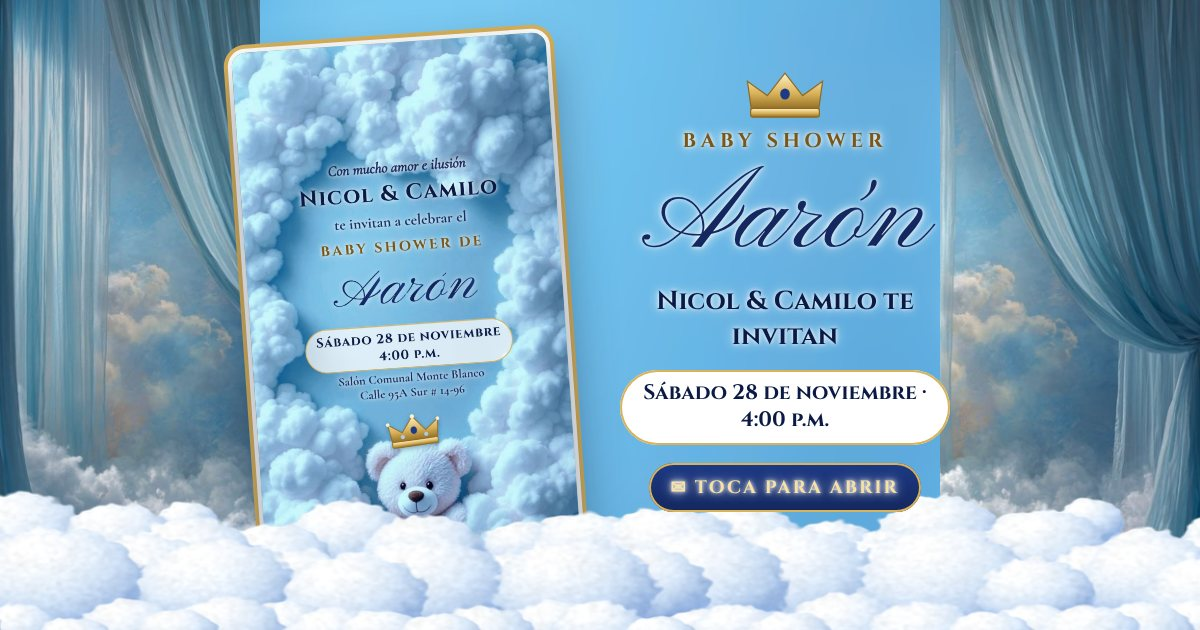
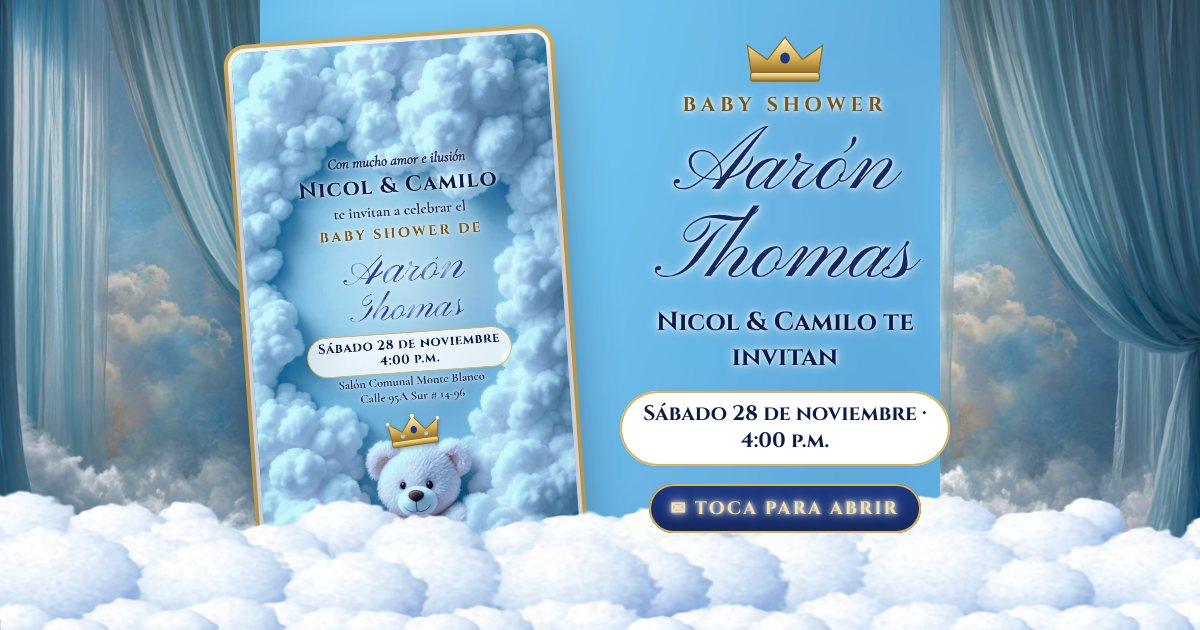
Add files via upload

Changed region(s): [[0.4933, 0.0603, 0.8017, 0.8746], [0.2467, 0.2413, 0.4317, 0.6635], [0.3392, 0.6635, 0.37, 0.7238]]

diff --git a/index.html b/index.html
@@ -3,19 +3,19 @@
 <head>
 <meta charset="utf-8">
 <meta name="viewport" content="width=device-width, initial-scale=1, viewport-fit=cover">
-<title>Baby Shower de Aarón 👑</title>
-<meta name="description" content="Nicol y Camilo te invitan a celebrar el baby shower de Aarón. Sábado 28 de noviembre, 4:00 p.m. Toca para abrir tu invitación.">
+<title>Baby Shower de Aarón Thomas 👑</title>
+<meta name="description" content="Nicol y Camilo te invitan a celebrar el baby shower de Aarón Thomas. Sábado 28 de noviembre, 4:00 p.m. Toca para abrir tu invitación.">
 <meta property="og:type" content="website">
 <meta property="og:locale" content="es_CO">
-<meta property="og:title" content="Baby Shower de Aarón 👑">
-<meta property="og:description" content="Nicol y Camilo te invitan a celebrar el baby shower de Aarón. Sábado 28 de noviembre, 4:00 p.m. Toca para abrir tu invitación.">
+<meta property="og:title" content="Baby Shower de Aarón Thomas 👑">
+<meta property="og:description" content="Nicol y Camilo te invitan a celebrar el baby shower de Aarón Thomas. Sábado 28 de noviembre, 4:00 p.m. Toca para abrir tu invitación.">
 <meta property="og:url" content="https://iwydebug.github.io/babyshower-aaron/">
 <meta property="og:image" content="https://iwydebug.github.io/babyshower-aaron/preview.jpg">
 <meta property="og:image:secure_url" content="https://iwydebug.github.io/babyshower-aaron/preview.jpg">
 <meta property="og:image:type" content="image/jpeg">
 <meta property="og:image:width" content="1200">
 <meta property="og:image:height" content="630">
-<meta property="og:image:alt" content="Invitación al baby shower de Aarón: osito con corona entre nubes">
+<meta property="og:image:alt" content="Invitación al baby shower de Aarón Thomas: osito con corona entre nubes">
 <meta name="twitter:card" content="summary_large_image">
 <meta name="twitter:image" content="https://iwydebug.github.io/babyshower-aaron/preview.jpg">
 <meta name="theme-color" content="#9fc6ea">
@@ -84,7 +84,7 @@ canvas.layer{position:fixed;inset:0;width:100%;height:100%;pointer-events:none}
 .pocket .lines{position:absolute;inset:0;width:100%;height:100%}
 .etext{position:absolute;left:0;right:0;top:57%;z-index:4;text-align:center;pointer-events:none;display:grid;justify-items:center;gap:0}
 .etext .bs{font-family:var(--display);font-weight:700;letter-spacing:.2em;font-size:clamp(.7rem,3.2vw,.95rem);color:var(--gold-lo)}
-.etext .nm{font-family:var(--script);font-size:clamp(2.6rem,13vw,3.8rem);line-height:1;color:var(--velvet);text-shadow:0 2px 0 rgba(255,255,255,.8)}
+.etext .nm{font-family:var(--script);font-size:clamp(2.1rem,10vw,3rem);white-space:nowrap;line-height:1;color:var(--velvet);text-shadow:0 2px 0 rgba(255,255,255,.8)}
 .flap{position:absolute;left:0;right:0;top:0;height:60%;transform-origin:50% 0;transform-style:preserve-3d;transition:transform .9s cubic-bezier(.6,.05,.3,1),z-index 0s .45s;z-index:5}
 .flap .f,.flap .b{position:absolute;inset:0;backface-visibility:hidden;-webkit-backface-visibility:hidden}
 .flap .b{transform:rotateX(180deg)}
@@ -121,7 +121,7 @@ main{position:relative;width:var(--cw);margin:0 auto;overflow:hidden;opacity:0;
 .fili.tl{top:2px;left:2px}.fili.tr{top:2px;right:2px;transform:scaleX(-1)}.fili.bl{bottom:2px;left:2px;transform:scaleY(-1)}.fili.br{bottom:2px;right:2px;transform:scale(-1)}
 
 .hero{position:relative;width:100%;aspect-ratio:736/1308;container-type:inline-size;background:var(--clouds) center/cover no-repeat;z-index:1;overflow:hidden}
-.oval{position:absolute;left:13%;right:13%;top:16.5%;bottom:32%;display:flex;flex-direction:column;align-items:center;justify-content:center;text-align:center;gap:.8cqw;
+.oval{position:absolute;left:12%;right:12%;top:15.5%;bottom:31.5%;display:flex;flex-direction:column;align-items:center;justify-content:center;text-align:center;gap:.5cqw;
   text-shadow:0 0 6px rgba(255,255,255,.95),0 0 14px rgba(255,255,255,.75)}
 .oval::before{content:"";position:absolute;inset:2% -4%;border-radius:50%;background:radial-gradient(ellipse,rgba(255,255,255,.5),rgba(255,255,255,0) 70%);z-index:-1}
 .oval p{margin:0}
@@ -129,7 +129,8 @@ main{position:relative;width:var(--cw);margin:0 auto;overflow:hidden;opacity:0;
 .parents{font-family:var(--display);font-weight:700;font-size:6.9cqw;letter-spacing:.05em;color:var(--navy)}
 .invite{font-size:4.8cqw;font-weight:700;color:var(--ink-2)}
 .event{font-family:var(--display);font-weight:700;letter-spacing:.18em;font-size:4.4cqw;color:var(--gold-lo);margin-top:1cqw!important}
-.baby{font-family:var(--script);font-weight:400;font-size:19cqw;line-height:1;margin:0;padding:0 2cqw;text-shadow:none;filter:drop-shadow(0 0 5px rgba(255,255,255,.9))}
+.baby .l1,.baby .l2{display:block}.baby .l1{font-size:16cqw;line-height:1}.baby .l2{font-size:13cqw;line-height:.95;margin-top:-1.5cqw}
+.baby{font-family:var(--script);font-weight:400;font-size:16cqw;line-height:1;margin:0;padding:0 2cqw;text-shadow:none;filter:drop-shadow(0 0 5px rgba(255,255,255,.9))}
 .baby .ch{display:inline-block;background:linear-gradient(100deg,var(--navy) 0%,#24479f 40%,#8fb6ea 50%,#24479f 60%,var(--navy) 100%);background-size:250% 100%;-webkit-background-clip:text;background-clip:text;color:transparent;animation:inkflow 5s linear infinite}
 @keyframes inkflow{from{background-position:120% 0}to{background-position:-130% 0}}
 .when{font-family:var(--display);font-weight:700;font-size:4.1cqw;letter-spacing:.05em;color:var(--navy);margin-top:.6cqw!important;padding:1.3cqw 3.6cqw;border-radius:99px;background:rgba(255,255,255,.8);box-shadow:inset 0 0 0 1.5px var(--gold);text-shadow:none;line-height:1.25}
@@ -266,7 +267,7 @@ main{position:relative;width:var(--cw);margin:0 auto;overflow:hidden;opacity:0;
       <div class="lining"></div>
       <div class="slot" id="slot"></div>
       <div class="pocket"><svg class="lines" viewBox="0 0 400 330" preserveAspectRatio="none" aria-hidden="true"><path d="M0 330 L200 175 L400 330" fill="none" stroke="rgba(122,154,200,.35)" stroke-width="2"/></svg></div>
-      <div class="etext" aria-hidden="true"><span class="bs">BABY SHOWER</span><span class="nm">Aarón</span></div>
+      <div class="etext" aria-hidden="true"><span class="bs">BABY SHOWER</span><span class="nm">Aarón Thomas</span></div>
       <div class="flap" aria-hidden="true">
         <div class="f"><svg viewBox="0 0 400 200" preserveAspectRatio="none">
           <defs><pattern id="dots" width="24" height="24" patternUnits="userSpaceOnUse"><circle cx="12" cy="12" r="2.4" fill="#fff" opacity=".8"/></pattern>
@@ -283,10 +284,10 @@ main{position:relative;width:var(--cw);margin:0 auto;overflow:hidden;opacity:0;
     <div class="blocks" aria-hidden="true">
       <svg viewBox="0 0 200 150">
         <g class="blk" style="animation-delay:0s"><g transform="rotate(-6 52 46)"><rect x="24" y="18" width="56" height="56" rx="10" fill="#1d3a86" stroke="#d9b25a" stroke-width="3"/><text x="52" y="60" text-anchor="middle" class="mono" font-size="36" fill="#f7e2a4">A</text></g></g>
-        <g class="blk" style="animation-delay:.25s"><g transform="rotate(5 112 46)"><rect x="84" y="18" width="56" height="56" rx="10" fill="#fff" stroke="#7fb2e5" stroke-width="3"/><text x="112" y="60" text-anchor="middle" class="mono" font-size="36" fill="#1d3a86">A</text></g></g>
-        <g class="blk" style="animation-delay:.5s"><rect x="8" y="80" width="58" height="58" rx="10" fill="#a9cdee" stroke="#1d3a86" stroke-width="3"/><text x="37" y="123" text-anchor="middle" class="mono" font-size="36" fill="#0b1a45">R</text></g>
-        <g class="blk" style="animation-delay:.75s"><rect x="70" y="80" width="58" height="58" rx="10" fill="url(#goldg)" stroke="#9a7428" stroke-width="3"/><text x="99" y="124" text-anchor="middle" class="mono" font-size="36" fill="#0b1a45">Ó</text></g>
-        <g class="blk" style="animation-delay:1s"><rect x="132" y="80" width="58" height="58" rx="10" fill="#1d3a86" stroke="#d9b25a" stroke-width="3"/><text x="161" y="123" text-anchor="middle" class="mono" font-size="36" fill="#f7e2a4">N</text></g>
+        <g class="blk" style="animation-delay:.25s"><g transform="rotate(5 112 46)"><rect x="84" y="18" width="56" height="56" rx="10" fill="#fff" stroke="#7fb2e5" stroke-width="3"/><text x="112" y="60" text-anchor="middle" class="mono" font-size="36" fill="#1d3a86">T</text></g></g>
+        <g class="blk" style="animation-delay:.5s"><rect x="8" y="80" width="58" height="58" rx="10" fill="#a9cdee" stroke="#1d3a86" stroke-width="3"/><text x="37" y="123" text-anchor="middle" class="mono" font-size="36" fill="#0b1a45" font-family="Arial,sans-serif">★</text></g>
+        <g class="blk" style="animation-delay:.75s"><rect x="70" y="80" width="58" height="58" rx="10" fill="url(#goldg)" stroke="#9a7428" stroke-width="3"/><text x="99" y="124" text-anchor="middle" class="mono" font-size="36" fill="#0b1a45" font-family="Arial,sans-serif">♥</text></g>
+        <g class="blk" style="animation-delay:1s"><rect x="132" y="80" width="58" height="58" rx="10" fill="#1d3a86" stroke="#d9b25a" stroke-width="3"/><text x="161" y="123" text-anchor="middle" class="mono" font-size="36" fill="#f7e2a4" font-family="Arial,sans-serif">★</text></g>
       </svg>
     </div>
     <button class="seal" id="open" aria-label="Abrir la invitación">
@@ -307,13 +308,13 @@ main{position:relative;width:var(--cw);margin:0 auto;overflow:hidden;opacity:0;
   <svg class="fili bl" viewBox="0 0 160 110" aria-hidden="true"><use href="#filigree"/></svg>
   <svg class="fili br" viewBox="0 0 160 110" aria-hidden="true"><use href="#filigree"/></svg>
 
-  <article class="hero" id="hero" aria-label="Invitación al baby shower de Aarón">
+  <article class="hero" id="hero" aria-label="Invitación al baby shower de Aarón Thomas">
     <div class="oval">
       <p class="lead">Con mucho amor e ilusión</p>
       <p class="parents">Nicol &amp; Camilo</p>
       <p class="invite">te invitan a celebrar el</p>
       <p class="event">BABY SHOWER DE</p>
-      <h1 class="baby" aria-label="Aarón"><span class="ch">A</span><span class="ch">a</span><span class="ch">r</span><span class="ch">ó</span><span class="ch">n</span></h1>
+      <h1 class="baby" aria-label="Aarón Thomas"><span class="l1"><span class="ch">A</span><span class="ch">a</span><span class="ch">r</span><span class="ch">ó</span><span class="ch">n</span></span><span class="l2"><span class="ch">T</span><span class="ch">h</span><span class="ch">o</span><span class="ch">m</span><span class="ch">a</span><span class="ch">s</span></span></h1>
       <p class="when">Sábado 28 de noviembre<br>4:00 p.m.</p>
       <p class="where">Salón Comunal Monte Blanco<br>Calle 95A Sur # 14-96</p>
       <p class="cue">DESLIZA<b>⌄</b></p>
@@ -335,7 +336,7 @@ main{position:relative;width:var(--cw);margin:0 auto;overflow:hidden;opacity:0;
           <path d="M200 70 L330 290 Q200 330 70 290 Z" fill="url(#usg)" opacity=".95"/>
           <g fill="#e9eef6" opacity=".88"><circle cx="170" cy="190" r="34"/><path d="M196 196 Q250 190 262 230 Q268 262 236 268 Q206 270 192 246 Q184 222 196 196 Z"/><circle cx="246" cy="270" r="9"/></g>
           <g class="beat"><path d="M200 214 C186 200 170 206 172 220 C174 232 200 244 200 244 C200 244 226 232 228 220 C230 206 214 200 200 214 Z" fill="#e98a96"/></g>
-          <text x="200" y="304" text-anchor="middle" class="mono" font-size="13" fill="#d9b25a" letter-spacing="4">AARÓN</text>
+          <text x="200" y="304" text-anchor="middle" class="mono" font-size="13" fill="#d9b25a" letter-spacing="3">AARÓN THOMAS</text>
         </svg>
       </div>
       <p class="eyebrow">NUESTRA HISTORIA</p>
@@ -380,11 +381,11 @@ main{position:relative;width:var(--cw);margin:0 auto;overflow:hidden;opacity:0;
           <circle cx="200" cy="262" r="112" fill="url(#monog)" stroke="#d9b25a" stroke-width="4"/>
           <circle cx="200" cy="262" r="98" fill="none" stroke="#f7e2a4" stroke-width="1.5" stroke-dasharray="2 6"/>
           <svg x="160" y="150" width="80" height="52" viewBox="0 0 100 64"><use href="#crownshape"/></svg>
-          <text x="200" y="312" text-anchor="middle" class="mono" font-size="130" fill="url(#goldg)">A</text>
+          <text x="200" y="312" text-anchor="middle" class="mono" font-size="100" fill="url(#goldg)">AT</text>
         </svg>
       </div>
       <p class="eyebrow">UN NOMBRE QUE YA BRILLA</p>
-      <h2 class="h2">Aarón</h2>
+      <h2 class="h2">Aarón Thomas</h2>
       <p class="phrase words">Tu nombre ya brilla como una estrella, y muy pronto brillará en nuestros brazos.</p>
       <p class="sub">Nuestro pequeño príncipe, el sueño más bonito de <em>mamá Nicol</em> y <em>papá Camilo</em>.</p>
     </div>
@@ -399,7 +400,7 @@ main{position:relative;width:var(--cw);margin:0 auto;overflow:hidden;opacity:0;
       <div class="date-big"><span class="dow">SÁBADO</span><span class="day">28</span><span class="mon">de noviembre</span><span class="pill">4:00 P.M.</span></div>
       <div class="count" id="count"><div><b id="cd-d">00</b><span>DÍAS</span></div><div><b id="cd-h">00</b><span>HORAS</span></div><div><b id="cd-m">00</b><span>MIN</span></div><div><b id="cd-s">00</b><span>SEG</span></div></div>
       <p class="h2" id="today" hidden style="font-size:2.8rem">¡Hoy es el gran día!</p>
-      <a class="btn navy" href="https://calendar.google.com/calendar/render?action=TEMPLATE&text=Baby%20Shower%20de%20Aar%C3%B3n&dates=20261128T210000Z/20261129T010000Z&location=Sal%C3%B3n%20Comunal%20Monte%20Blanco%2C%20Calle%2095A%20Sur%20%23%2014-96%2C%20Bogot%C3%A1&details=Nicol%20y%20Camilo%20te%20invitan%20al%20baby%20shower%20de%20Aar%C3%B3n." target="_blank" rel="noopener">AGREGAR AL CALENDARIO</a>
+      <a class="btn navy" href="https://calendar.google.com/calendar/render?action=TEMPLATE&text=Baby%20Shower%20de%20Aar%C3%B3n%20Thomas&dates=20261128T210000Z/20261129T010000Z&location=Sal%C3%B3n%20Comunal%20Monte%20Blanco%2C%20Calle%2095A%20Sur%20%23%2014-96%2C%20Bogot%C3%A1&details=Nicol%20y%20Camilo%20te%20invitan%20al%20baby%20shower%20de%20Aar%C3%B3n%20Thomas." target="_blank" rel="noopener">AGREGAR AL CALENDARIO</a>
     </div>
   </section>
 
@@ -422,7 +423,7 @@ main{position:relative;width:var(--cw);margin:0 auto;overflow:hidden;opacity:0;
   <section class="sec">
     <div class="band alt"></div>
     <div class="content">
-      <p class="eyebrow">UN REGALITO DE AARÓN</p>
+      <p class="eyebrow">UN REGALITO DE AARÓN THOMAS</p>
       <h2 class="h2">¡Revienta los globos!</h2>
       <p class="howto">Toca 6 globos para descubrir un mensaje secreto.</p>
       <div class="arena" id="arena"><canvas id="game"></canvas></div>
@@ -434,10 +435,10 @@ main{position:relative;width:var(--cw);margin:0 auto;overflow:hidden;opacity:0;
     <div class="band alt"></div>
     <div class="puff r a" style="top:52%"></div>
     <div class="content">
-      <p class="eyebrow">UN DETALLE PARA AARÓN</p>
+      <p class="eyebrow">UN DETALLE PARA AARÓN THOMAS</p>
       <h2 class="h2">Lluvia de sobres</h2>
       <div class="rain" id="rain" aria-hidden="true"><div class="cloudtop"></div><span class="e" style="left:6%;animation-duration:4.2s;animation-delay:-0s"><svg viewBox="0 0 60 42"><rect x="1" y="1" width="58" height="40" rx="5" fill="#fff" stroke="#d9b25a" stroke-width="2"/><path d="M2 3 L30 24 L58 3" fill="none" stroke="#d9b25a" stroke-width="2"/><path d="M30 20 c-3 -4 -9 -2 -8 2 c1 4 8 8 8 8 c0 0 7 -4 8 -8 c1 -4 -5 -6 -8 -2z" fill="#1d3a86"/></svg></span><span class="e" style="left:22%;animation-duration:5.1s;animation-delay:-1.3s"><svg viewBox="0 0 60 42"><rect x="1" y="1" width="58" height="40" rx="5" fill="#fff" stroke="#d9b25a" stroke-width="2"/><path d="M2 3 L30 24 L58 3" fill="none" stroke="#d9b25a" stroke-width="2"/><path d="M30 20 c-3 -4 -9 -2 -8 2 c1 4 8 8 8 8 c0 0 7 -4 8 -8 c1 -4 -5 -6 -8 -2z" fill="#e98a96"/></svg></span><span class="e" style="left:40%;animation-duration:3.8s;animation-delay:-2.6s"><svg viewBox="0 0 60 42"><rect x="1" y="1" width="58" height="40" rx="5" fill="#fff" stroke="#d9b25a" stroke-width="2"/><path d="M2 3 L30 24 L58 3" fill="none" stroke="#d9b25a" stroke-width="2"/><path d="M30 20 c-3 -4 -9 -2 -8 2 c1 4 8 8 8 8 c0 0 7 -4 8 -8 c1 -4 -5 -6 -8 -2z" fill="#d9b25a"/></svg></span><span class="e" style="left:58%;animation-duration:4.6s;animation-delay:-0.7s"><svg viewBox="0 0 60 42"><rect x="1" y="1" width="58" height="40" rx="5" fill="#fff" stroke="#d9b25a" stroke-width="2"/><path d="M2 3 L30 24 L58 3" fill="none" stroke="#d9b25a" stroke-width="2"/><path d="M30 20 c-3 -4 -9 -2 -8 2 c1 4 8 8 8 8 c0 0 7 -4 8 -8 c1 -4 -5 -6 -8 -2z" fill="#7fb2e5"/></svg></span><span class="e" style="left:74%;animation-duration:5.4s;animation-delay:-3.1s"><svg viewBox="0 0 60 42"><rect x="1" y="1" width="58" height="40" rx="5" fill="#fff" stroke="#d9b25a" stroke-width="2"/><path d="M2 3 L30 24 L58 3" fill="none" stroke="#d9b25a" stroke-width="2"/><path d="M30 20 c-3 -4 -9 -2 -8 2 c1 4 8 8 8 8 c0 0 7 -4 8 -8 c1 -4 -5 -6 -8 -2z" fill="#1d3a86"/></svg></span><span class="e" style="left:14%;animation-duration:4.9s;animation-delay:-2.0s"><svg viewBox="0 0 60 42"><rect x="1" y="1" width="58" height="40" rx="5" fill="#fff" stroke="#d9b25a" stroke-width="2"/><path d="M2 3 L30 24 L58 3" fill="none" stroke="#d9b25a" stroke-width="2"/><path d="M30 20 c-3 -4 -9 -2 -8 2 c1 4 8 8 8 8 c0 0 7 -4 8 -8 c1 -4 -5 -6 -8 -2z" fill="#d9b25a"/></svg></span><span class="e" style="left:48%;animation-duration:4.4s;animation-delay:-3.6s"><svg viewBox="0 0 60 42"><rect x="1" y="1" width="58" height="40" rx="5" fill="#fff" stroke="#d9b25a" stroke-width="2"/><path d="M2 3 L30 24 L58 3" fill="none" stroke="#d9b25a" stroke-width="2"/><path d="M30 20 c-3 -4 -9 -2 -8 2 c1 4 8 8 8 8 c0 0 7 -4 8 -8 c1 -4 -5 -6 -8 -2z" fill="#7fb2e5"/></svg></span><span class="e" style="left:82%;animation-duration:3.9s;animation-delay:-1.8s"><svg viewBox="0 0 60 42"><rect x="1" y="1" width="58" height="40" rx="5" fill="#fff" stroke="#d9b25a" stroke-width="2"/><path d="M2 3 L30 24 L58 3" fill="none" stroke="#d9b25a" stroke-width="2"/><path d="M30 20 c-3 -4 -9 -2 -8 2 c1 4 8 8 8 8 c0 0 7 -4 8 -8 c1 -4 -5 -6 -8 -2z" fill="#e98a96"/></svg></span><svg class="basket" viewBox="0 0 150 70"><path d="M8 18 H142 L128 66 Q75 74 22 66 Z" fill="#1d3a86" stroke="#d9b25a" stroke-width="3"/><path d="M8 18 H142" stroke="#f7e2a4" stroke-width="6" stroke-linecap="round"/><g fill="#a9cdee" opacity=".55"><circle cx="40" cy="40" r="3"/><circle cx="75" cy="46" r="3"/><circle cx="110" cy="40" r="3"/><circle cx="58" cy="58" r="3"/><circle cx="92" cy="58" r="3"/></g><svg x="58" y="26" width="34" height="22" viewBox="0 0 100 64"><use href="#crownshape"/></svg></svg></div>
-      <p class="sub">Tu compañía es nuestro regalo más bonito. Si deseas tener un detalle con Aarón, tendremos una <em>lluvia de sobres</em> el día del baby shower.</p>
+      <p class="sub">Tu compañía es nuestro regalo más bonito. Si deseas tener un detalle con Aarón Thomas, tendremos una <em>lluvia de sobres</em> el día del baby shower.</p>
     </div>
   </section>
 
@@ -447,7 +448,7 @@ main{position:relative;width:var(--cw);margin:0 auto;overflow:hidden;opacity:0;
     <div class="content">
       <div class="close-bear"><svg viewBox="0 0 240 250" aria-hidden="true"><use href="#bearshape"/></svg><div class="seat"></div></div>
       <h2 class="h2">¡Te esperamos!</h2>
-      <p class="sub">Tu presencia será el regalo más bonito para recibir a nuestro príncipe Aarón.</p>
+      <p class="sub">Tu presencia será el regalo más bonito para recibir a nuestro príncipe Aarón Thomas.</p>
       <p class="sign">Con amor, Nicol &amp; Camilo</p>
       <button class="again" id="again">VOLVER A ABRIR EL SOBRE</button>
     </div>
@@ -667,7 +668,7 @@ $('again').addEventListener('click',()=>{
 });
 
 /* ---------- osito de la tarjeta ---------- */
-const phrases=['¡Hola, soy Aarón!','¡Ya casi llego!','¿Vienes a mi fiesta?','¡Te quiero conocer!','¡Gracias por venir!'];let pi=0,spT;
+const phrases=['¡Hola, soy Aarón Thomas!','¡Ya casi llego!','¿Vienes a mi fiesta?','¡Te quiero conocer!','¡Gracias por venir!'];let pi=0,spT;
 hero.querySelector('.bear-hit').addEventListener('click',e=>{initAudio();S.boop();
   const r=e.currentTarget.getBoundingClientRect();burst(r.left+r.width/2,r.top+r.height*.3,14,'heart');
   const c=hero.querySelector('.crown');c.classList.remove('jump');void c.offsetWidth;c.classList.add('jump');
@@ -701,7 +702,7 @@ arena.addEventListener('pointerdown',e=>{if(gdone)return;initAudio();const r=are
   const b=gb[hit];S.pop();for(let k=0;k<22;k++){const a=Math.random()*7,v=2+Math.random()*4;gparts.push({x:b.x+b.dx,y:b.y,vx:Math.cos(a)*v,vy:Math.sin(a)*v-2,life:1,rot:Math.random()*6,col:PAL[Math.random()*PAL.length|0]})}
   gb.splice(hit,1);addB(false);if(popped<6){$('meter').children[popped].classList.add('on');popped++}
   if(popped===6&&!gdone){gdone=true;setTimeout(()=>{S.fanfare();const rr=arena.getBoundingClientRect();burst(rr.left+rr.width/2,rr.top+rr.height/2,70,'confetti');burst(rr.left+rr.width/2,rr.top+rr.height/2,20,'heart');
-    const s=document.createElement('div');s.className='surprise';s.innerHTML='<p class="eyebrow">MENSAJE DE AARÓN</p><p class="h2">¡Ya casi llego!</p><p>Mis papis me esperan con mucho amor, y yo quiero que tú también estés ahí para recibirme. ¡Nos vemos el sábado 28!</p>';arena.appendChild(s)},300)}});
+    const s=document.createElement('div');s.className='surprise';s.innerHTML='<p class="eyebrow">MENSAJE DE AARÓN THOMAS</p><p class="h2">¡Ya casi llego!</p><p>Mis papis me esperan con mucho amor, y yo quiero que tú también estés ahí para recibirme. ¡Nos vemos el sábado 28!</p>';arena.appendChild(s)},300)}});
 })();
 </script>
 
